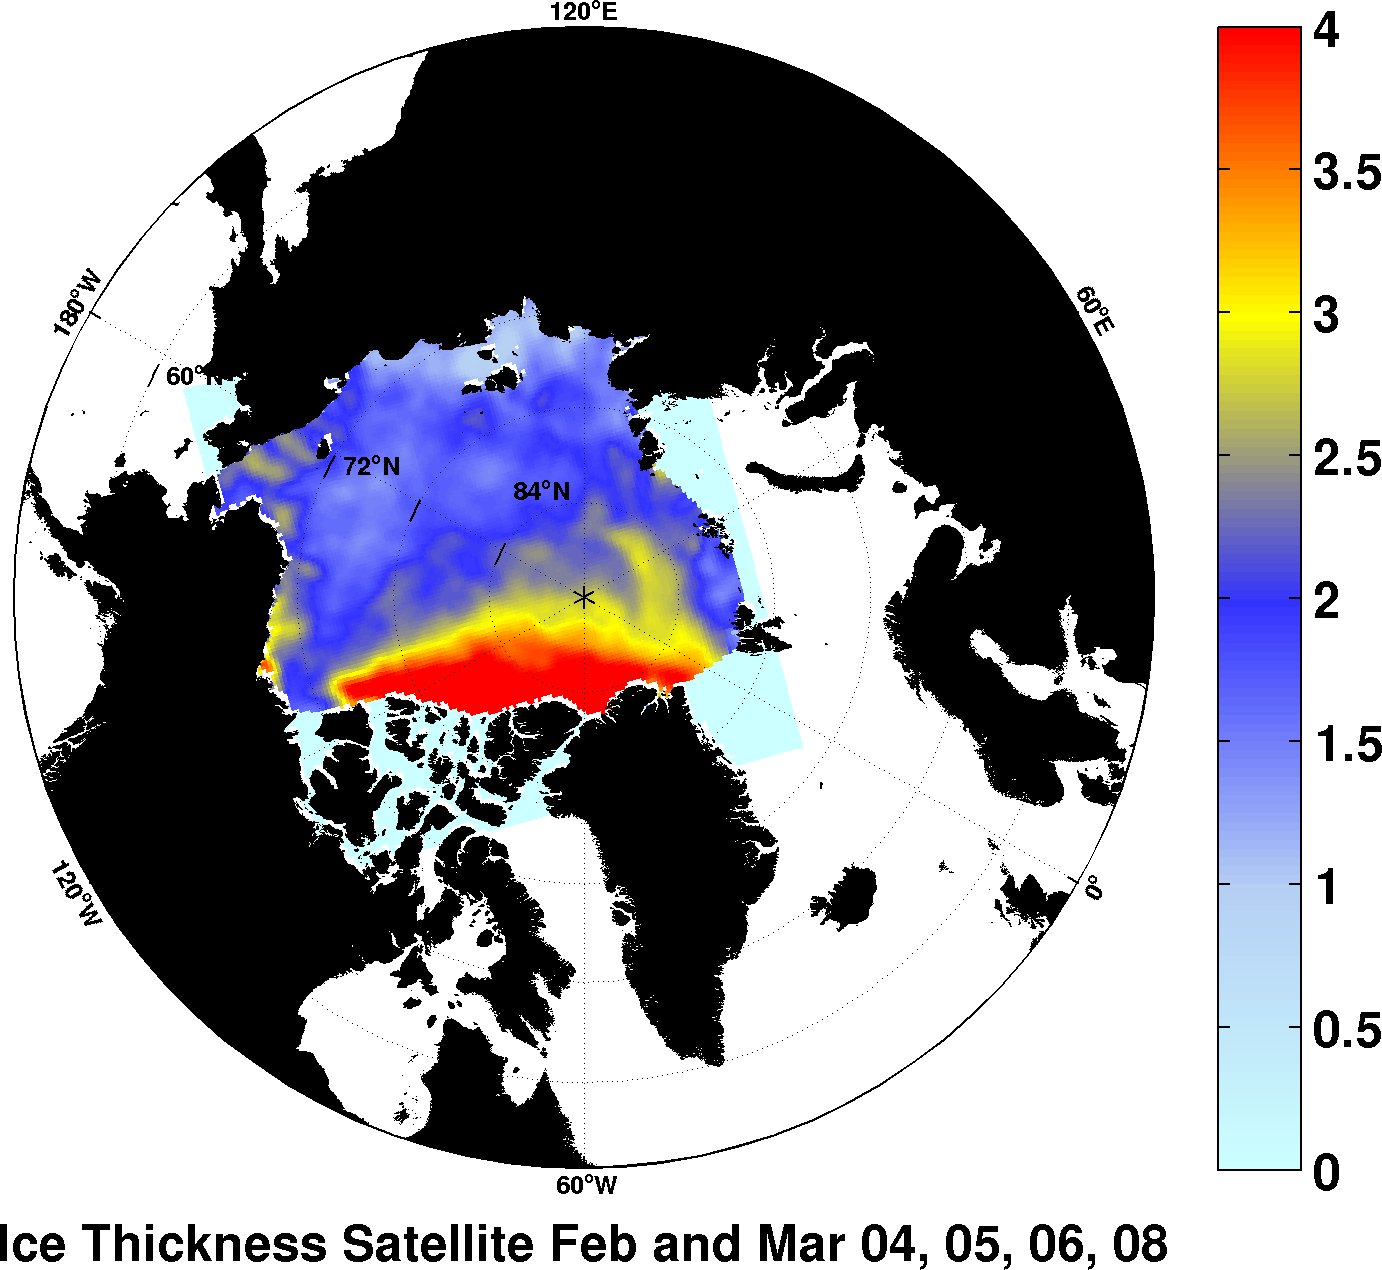
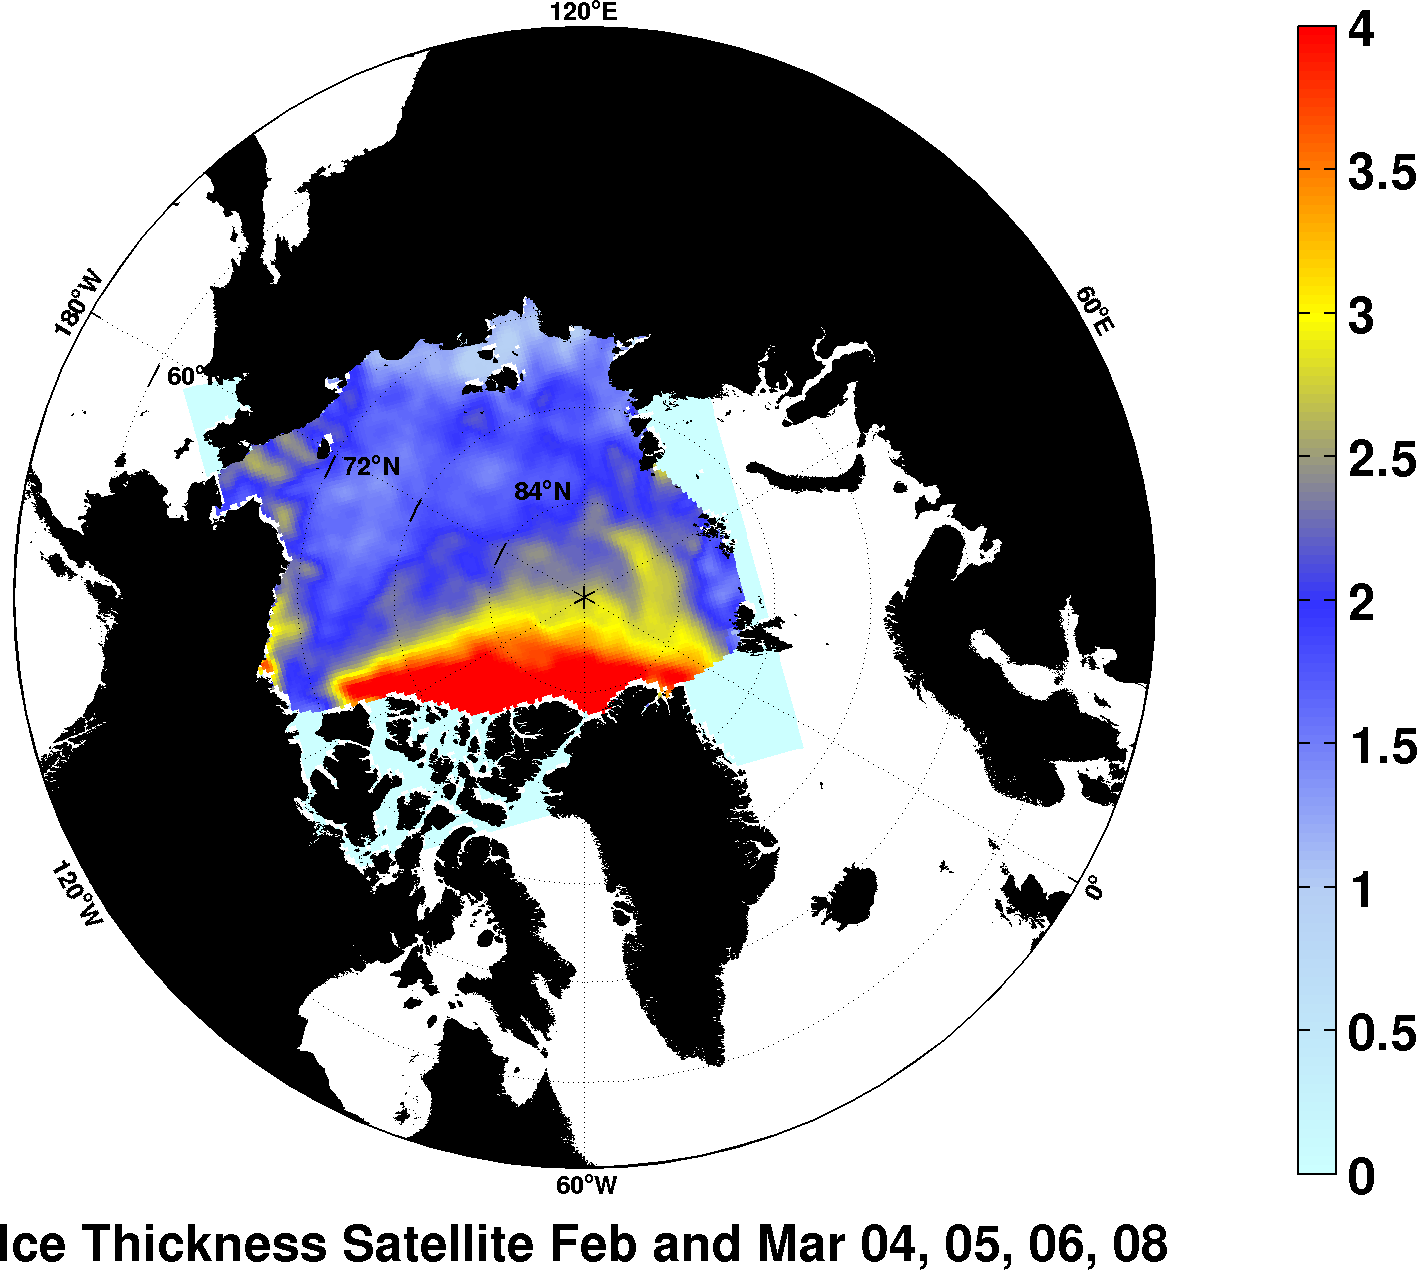
Fix bug in Satellite plots in Poster

diff --git a/Step2/showIce_Sat_index_Poster.m b/Step2/showIce_Sat_index_Poster.m
@@ -33,7 +33,7 @@ data_Type = 'iicethic';
 myIceH_sum = 0;
 % date = num2date(yearCounter, timeCounter);
 
-for control_Index = 6:10
+for control_Index = 1: 4
     
     if nargin==0
         flname=['icesat_icethk_', name_Array{control_Index}, '_filled.dat'];
@@ -189,6 +189,7 @@ end
         % colorbar('location','southoutside')
         set(gcf,'paperPositionmode','auto')
         set(gca, 'CLim', [0, 4.0]);
+        set(hbar,'position',[0.9 0.1055 0.02 0.8203]);
         % figurenicer;
         disp('figure 1 complete');
         toc;
@@ -201,7 +202,7 @@ end
     end
     
     set(gcf, 'visible', 'on');
-    xlabel('Ice Thickness Satellite Oct and Nov 2003-2007','fontweight','bold','fontsize',12,'fontname','Nimbus Sans L');
+    xlabel('Ice Thickness Satellite Feb and Mar 04, 05, 06, 08','fontweight','bold','fontsize',12,'fontname','Nimbus Sans L');
 
-    print(gcf, '-dpng', '-r300' ,'Ice_Thickness_Autumn_Satellite.png');
+    print(gcf, '-dpng', '-r300' ,'Ice_Thickness_Spring_Satellite.png');
 
